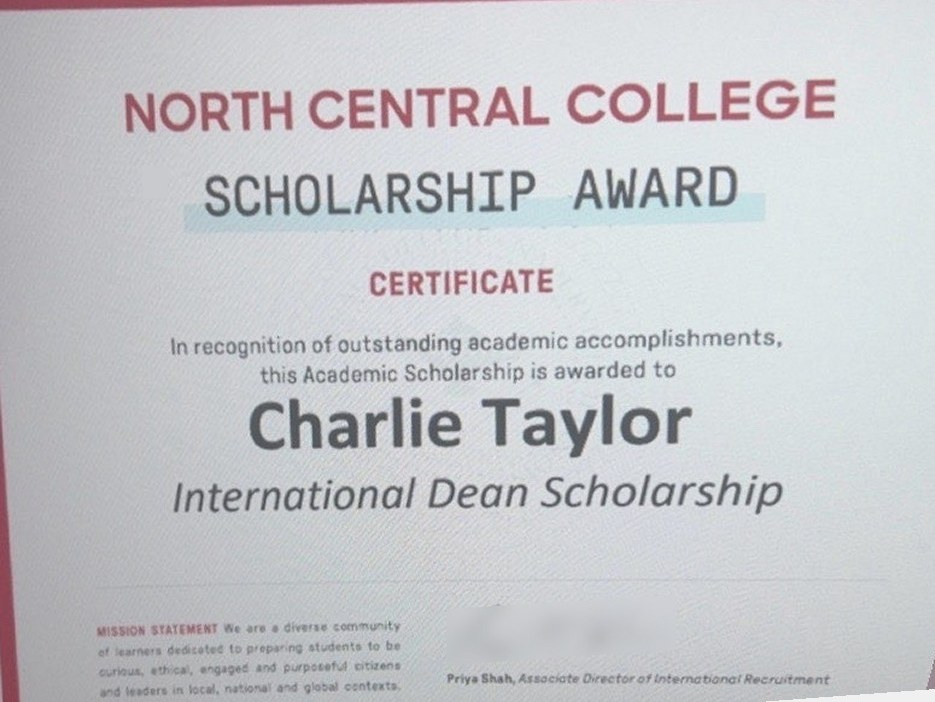
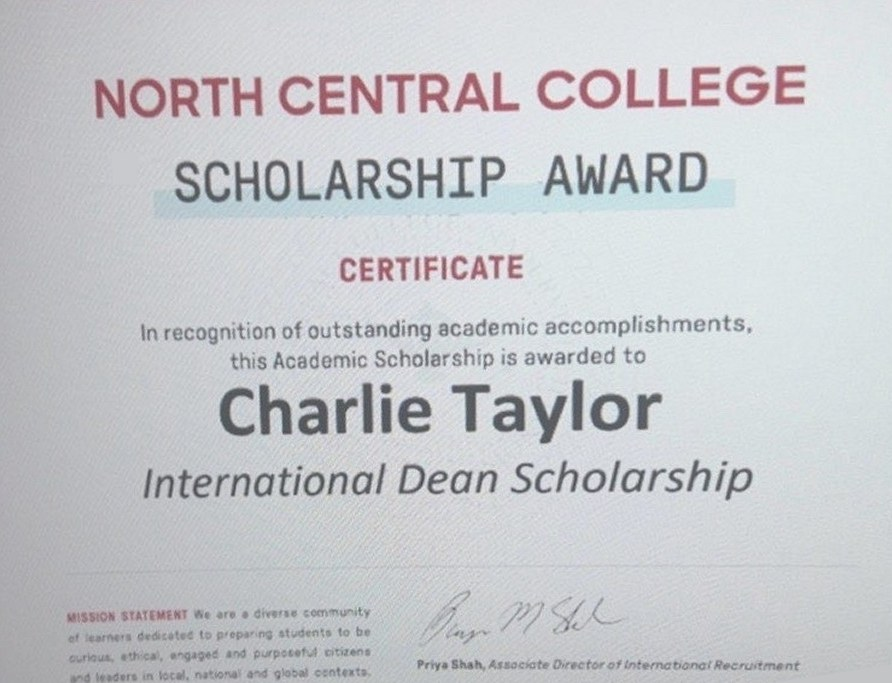
Testimonials: crop red border off Charlie's certificate and show signature

diff --git a/testimonials.html b/testimonials.html
@@ -395,7 +395,7 @@ body{font-family:'Inter',sans-serif;font-size:16px;line-height:1.6;color:var(--t
     </div>
 
     <div class="proof">
-      <img class="proof__img" loading="lazy" decoding="async" src="/images/charlie-taylor-scholarship.jpg" width="935" height="702" alt="North Central College scholarship award certificate for Charlie Taylor: International Dean Scholarship">
+      <img class="proof__img" loading="lazy" decoding="async" src="/images/charlie-taylor-scholarship.jpg?v=2" width="892" height="683" alt="North Central College scholarship award certificate for Charlie Taylor: International Dean Scholarship">
       <div>
         <div class="vtest__eyebrow">Scholarship award</div>
         <div class="vtest__name">Charlie Taylor</div>
